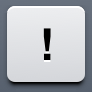
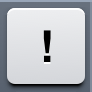
Make bang bar images slightly less ugly

diff --git a/DuckDuckGo/DDGSearchController.m b/DuckDuckGo/DDGSearchController.m
@@ -336,7 +336,6 @@
     UIButton *bangButton = [UIButton buttonWithType:UIButtonTypeCustom];
     [bangButton setBackgroundImage:[UIImage imageNamed:@"bang_button.png"] forState:UIControlStateNormal];
     bangButton.frame = CGRectMake(0, 0, 46, 46);
-    //[bangButton setTitle:@"!" forState:UIControlStateNormal];
     [bangButton addTarget:self action:@selector(bangButtonPressed) forControlEvents:UIControlEventTouchUpInside];
     [inputAccessory addSubview:bangButton];
     
@@ -381,7 +380,9 @@
         [button setTitle:suggestion forState:UIControlStateNormal];
         [button addTarget:self action:@selector(bangAutocompleteButtonPressed:) forControlEvents:UIControlEventTouchUpInside];
         CGSize titleSize = [suggestion sizeWithFont:button.titleLabel.font];
-        [button setFrame:CGRectMake(scrollView.contentSize.width, 0, titleSize.width, 46)];
+        [button setFrame:CGRectMake(scrollView.contentSize.width, 0, titleSize.width + 10, 46)];
+        UIImage *backgroundImg = [[UIImage imageNamed:@"empty_bang_button.png"] stretchableImageWithLeftCapWidth:6.0 topCapHeight:10.0];
+        [button setBackgroundImage:backgroundImg forState:UIControlStateNormal];
         scrollView.contentSize = CGSizeMake(scrollView.contentSize.width + titleSize.width + 10, 46);
         [scrollView addSubview:button];
     }
